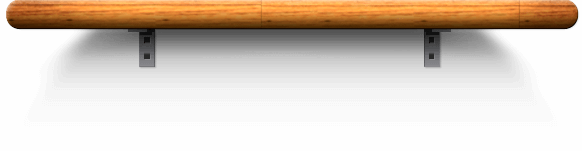
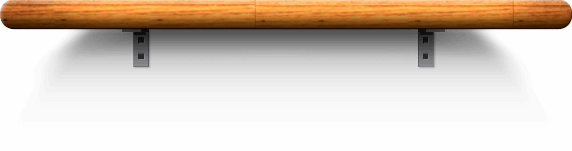
tattoo

diff --git a/book/www/js/app/books-data.js b/book/www/js/app/books-data.js
@@ -861,7 +861,7 @@
 				title: {text: 'Как лиса летать училась'},
 				pages: [
 					{
-						text: 'Вот так до сих пор и ходят они по болоту друг за дружкой, да никак не женятся. А всё оттого, что гордыня их замучила. овстречались как-то раз Лиса и Журавль:<br />- Как дела, Лиса-кума?<br />- Да всё бы хорошо, куманёк, да вот летать я не умею...<br />- Так давай я тебя научу! Садись верхом!<br />Уселась лиса на Журавля, поднялись они высоко в небо. Земля внизу - меньше горошины!<br />- Ну что, кума, готова?<br />- Да уж готова, а как летать-то?<br />- А вот прямо так и лети! - сказал Журавль и сбросил Лису со спины. Та камнем полетела вниз, хорошо ещё, что в стог сена угодила.',
+						text: 'Повстречались как-то раз Лиса и Журавль:<br />- Как дела, Лиса-кума?<br />- Да всё бы хорошо, куманёк, да вот летать я не умею...<br />- Так давай я тебя научу! Садись верхом!<br />Уселась лиса на Журавля, поднялись они высоко в небо. Земля внизу - меньше горошины!<br />- Ну что, кума, готова?<br />- Да уж готова, а как летать-то?<br />- А вот прямо так и лети! - сказал Журавль и сбросил Лису со спины. Та камнем полетела вниз, хорошо ещё, что в стог сена угодила.',
 						time: 44.0845
 					},
 					{

diff --git a/book/www/js/app/view/home.js b/book/www/js/app/view/home.js
@@ -19,11 +19,28 @@
 
 			var view = this;
 
-			view.$el = $(view.tmpl.home());
+			view.$el = $(view.tmpl.home({
+				booksOnShelf: view.getBooksOnShelfNumber()
+			}));
 
 			view.proto.initialize.apply(view, arguments);
 
+			view.bindEventListeners();
+
 			view.render();
+
+		},
+
+		getBooksOnShelfNumber: function () {
+
+			var view = this,
+				device = win.APP.bb.device,
+				remSize = view.info.get('remSize', true) + 1,
+				bookWidthRem = 8.8, // SEE CSS
+				bookWidthPx = bookWidthRem * remSize,
+				availableWidth = device.get('width');
+
+			return Math.floor(availableWidth / bookWidthPx);
 
 		},
 
@@ -54,6 +71,24 @@
 					text: popupText
 				}
 			});
+
+		},
+
+		bindEventListeners: function () {
+
+			var view = this,
+				device = win.APP.bb.device;
+
+			view.listenTo(device, 'change:orientation', view.loadUrl);
+
+		},
+
+		unbindEventListeners: function () {
+
+			var view = this,
+				device = win.APP.bb.device;
+
+			view.stopListening(device, 'change:orientation', view.loadUrl);
 
 		}
 

diff --git a/book/www/index.html b/book/www/index.html
@@ -104,7 +104,7 @@
 
 					<div class="scroll-area-content clear-fix book-titles-wrapper">
 
-					{{ var booksData = window.APP.booksData, languageName = window.APP.info.get('language'), books = booksData[languageName]; }}
+					{{ var booksData = window.APP.booksData, languageName = window.APP.info.get('language'), books = booksData[languageName], booksOnShelf = it.booksOnShelf; }}
 
 					{{~books :book:index}}
 
@@ -114,14 +114,14 @@
 						</div>
 					</div>
 
-					{{? index && index % 2 }}
-						<div class="shelf">&nbsp;</div>
+					{{? index && !((index + 1) % booksOnShelf) }}
+						<div class="shelf shelf-number-{{= booksOnShelf }}">&nbsp;</div>
 					{{?}}
 
 					{{~ }}
 
-					{{? books.length % 2 }}
-					<div class="shelf">&nbsp;</div>
+					{{? books.length % booksOnShelf }}
+						<div class="shelf shelf-number-{{= booksOnShelf }}">&nbsp;</div>
 					{{?}}
 
 					<div class="clear-fix share-link-wrapper js-no-scroll">

diff --git a/book/www/css/style.css b/book/www/css/style.css
@@ -265,16 +265,39 @@
 .shelf {
 	background-image: url(../i/shelf.png);
 	background-repeat: no-repeat;
-	-webkit-background-size: contain;
-	background-size: contain;
+	/*-webkit-background-size: contain;*/
+	/*background-size: contain;*/
+	-webkit-background-size: 100% 100%;
+	background-size: 100% 100%;
+
 	clear: both;
 	position: relative;
 	z-index: 0;
-	max-width: 20.8rem;
-	width: 90%;
+	/*max-width: 20.8rem;*/
+	/*width: 90%;*/
 	margin: 0 auto;
 	height: 5.5rem;
 	margin-bottom: -1rem;
+}
+
+.shelf-number-1 {
+	width: 8.8rem;
+}
+
+.shelf-number-2 {
+	width: 17.6rem;
+}
+
+.shelf-number-3 {
+	width: 26.4rem;
+}
+
+.shelf-number-4 {
+	width: 35.2rem;
+}
+
+.shelf-number-5 {
+	width: 44rem;
 }
 
 .bg-inner-page {

diff --git a/book/www/js/services/device.js b/book/www/js/services/device.js
@@ -10,6 +10,12 @@
 
 	win.APP.BB.DeviceModel = Backbone.Model.extend({
 
+		defaults: {
+			width: 0,
+			height: 0,
+			orientation: ''
+		},
+
 		initialize: function () {
 
 			var device = this;
@@ -32,19 +38,20 @@
 
 		onResize: function () {
 
-			var device = this;
+			var device = this,
+				width = docElem.clientWidth,
+				height = docElem.clientHeight,
+				orientation = width > height ? '-' : '|';
 
 			device.set({
-				width: docElem.clientWidth,
-				height: docElem.clientHeight
+				width: width,
+				height: height,
+				orientation: orientation
 			});
 
 			device.trigger('resize');
 
 		}
-
-
-
 
 	});
 
